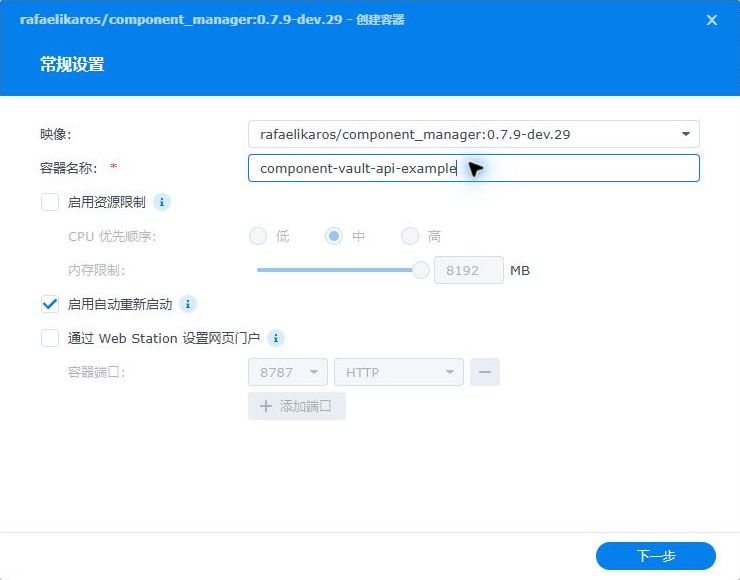
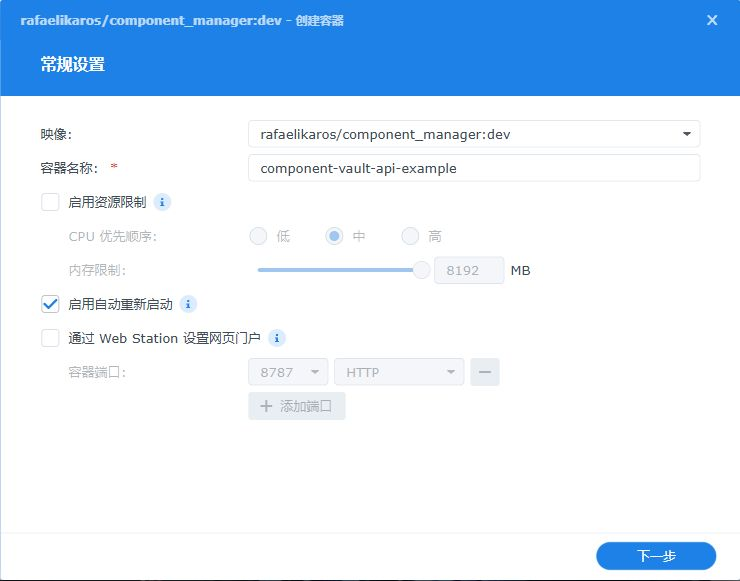
docs: illustrate standalone Synology deployment on dev.30

diff --git a/docs/docker-manual.md b/docs/docker-manual.md
@@ -1,85 +1,110 @@
-# 群晖手动部署
+# 群晖 Container Manager 图文部署
 
-在 Container Manager 的「映像」中分别运行 API 和 Web 即可。以下步骤全程使用 DSM 界面，无需 Compose、`.env`、SSH、Web Station 或 Docker socket。如果只用 Android 同步，创建 API 容器即可。
+在群晖的 **Container Manager → 映像**中创建 API 和 Web 两个独立容器，全程在 DSM 界面完成，无需 Compose、`.env`、SSH 或 Docker socket。只需要 Android 同步时，创建 API 并设置管理员密钥即可。
 
-![浏览器分别访问 NAS 上的 Web 8081 和 API 8787。](images/docker-manual/access-topology.svg)
+本页用 `v0.7.9-dev.30` 的实拍演示。截图里的 `192.168.1.4` 是示例，请换成自己的 NAS 地址。带 `-example` 的名称用于演示向导。
 
-## 1. 选择镜像
+![部署示意。浏览器访问 NAS 的 8081 端口打开 Web 管理台，客户端和管理台都使用 8787 端口访问 API。](images/docker-manual/access-topology.svg)
 
-在「镜像仓库」搜索 `rafaelikaros/component_manager`，下载所选渠道的镜像。
+## 1. 下载对应版本的镜像
 
-| 渠道 | API 使用的标签 | Web 使用的标签 | Web 的「命令」 |
+在「镜像仓库」搜索 `rafaelikaros/component_manager`，按下表下载标签。`dev` 统一镜像只下载一次，后面用它创建两个容器。
+
+| 要安装的版本 | API 标签 | Web 标签 | Web 的「命令」 |
 | --- | --- | --- | --- |
-| 开发版（dev.30 起） | `dev` | `dev`，直接复用已经下载的镜像 | 填 `web` |
+| 开发版 dev.30 起 | `dev` | 使用同一个 `dev` | 填 `web` |
+| 固定 dev.30 | `0.7.9-dev.30` | 使用同一个 `0.7.9-dev.30` | 填 `web` |
 | 正式版 0.7.8 | `latest` | `web-latest` | 留空 |
-| 固定 dev.30 | `0.7.9-dev.30` | `0.7.9-dev.30` | 填 `web` |
 
-若仓库搜索报错，打开「映像 → 操作 → 导入 → 从 URL 添加」，输入 `https://hub.docker.com/r/rafaelikaros/component_manager`，选择目标标签。公开镜像无需填写 Docker Hub 用户名和密码，保留证书验证。等待镜像出现在「映像」后再创建容器。
+**搜索提示无法连接时**，打开「映像 → 操作 → 导入 → 从 URL 添加」。粘贴下面的仓库地址，账号和密码留空，保留默认的证书验证。点击「导入」后，在列表中选择需要的标签。
 
-旧部署可以继续使用配套的 `web-*` 兼容标签和默认 Web 命令。创建新开发版容器时，只需要表中的一个统一镜像。
+```text
+https://hub.docker.com/r/rafaelikaros/component_manager
+```
+
+![群晖「从 URL 添加」窗口。填写 Docker Hub 仓库地址，账号和密码保持空白。](images/docker-manual/00-import-url.jpg)
+
+下载完后在「映像」找到所选标签。下图中只有一个 `dev` 映像，选中它后可以点「运行」。
+
+![DSM 映像列表选中了 rafaelikaros/component_manager 的 dev 标签。](images/docker-manual/01-images.jpg)
 
 ## 2. 创建 API 容器
 
-新安装先在 File Station 创建 `/docker/component-vault/data`。升级时，先按[手动更新步骤](#5-手动更新或切换渠道)备份并记录原映射，然后继续使用原数据目录。
+**准备数据目录。** 新安装用 File Station 在 `docker` 共享文件夹下创建 `component-vault/data`。如果在升级，先[备份并记录旧挂载](#5-手动更新或切换渠道)，创建新容器时选择原目录。
 
-1. 在「映像」选中 API 镜像，点「运行」。容器名可填 `component-vault-api`。可勾选「启用自动重新启动」，保持「通过 Web Station 设置网页门户」未勾选。
-2. 在「高级设置 → 端口设置」填本地 `8787`、容器 `8787`，类型 `TCP`。在「存储空间设置」选择数据目录，装载路径填 `/data`，选「读取/写入」。
+1. 选中 API 映像，点「运行」。容器名称填 `component-vault-api`，可以勾选自动重新启动。「通过 Web Station 设置网页门户」保持未勾选，然后点「下一步」。
 
-   ![DSM 的 API 端口与数据挂载示例。](images/docker-manual/03-api-ports-data.jpg)
+   ![API 常规设置。映像使用 dev、启用自动重新启动、Web Station 网页门户未勾选。](images/docker-manual/02-api-general.jpg)
 
-3. 网络选择 `bridge`，保持高权限关闭。新安装保留镜像自带的环境变量。「执行命令」中的 Entrypoint 保留默认值，「命令」留空。统一镜像会执行默认的 `api`。
-4. 核对摘要，保持「向导完成后运行此容器」勾选，点「完成」。打开 `http://NAS地址:8787/health`。看到 `"status":"ok"` 后再继续。
+2. 在「高级设置」将本地端口和容器端口都填 `8787`，类型选 `TCP`。在「存储空间设置」点「添加文件夹」，选准备好的数据目录，装载路径填 `/data`，权限选「读取/写入」。
+
+   ![API 高级设置。8787 映射到 8787，选中的宿主目录以读写方式挂载到 /data。](images/docker-manual/03-api-ports-data.jpg)
+
+3. 新安装保留镜像的环境变量。网络选 `bridge`，高权限执行保持关闭。在「执行命令」中保留 Entrypoint，把「命令」留空。图里灰色的 `api` 是默认命令提示。
+
+   ![API 使用 bridge 网络和镜像自带的入口。命令框为空，灰色提示为 api。](images/docker-manual/04-api-command.jpg)
+
+4. 点「下一步」。在摘要核对端口和 `/data` 后，勾选「向导完成后运行此容器」，点击「完成」。打开 `http://NAS地址:8787/health`，应看到 `"status":"ok"`。版本从同一响应的 `version` 查看。
 
 ## 3. 创建 Web 容器
 
-1. 在「映像」中再次点「运行」。开发版选刚才创建 API 的同一个镜像，正式版选 `web-latest`。容器名可填 `component-vault-web`。保持 Web Station 和高权限关闭。
-2. 在「高级设置 → 端口设置」只保留本地 `8081` → 容器 `80`（TCP）。若向导预填 `8787` 或 `8790`，把容器端口改成 `80` 或删除预填行后新增。Web 容器的「存储空间设置」留空。
+1. 回到「映像」再点一次「运行」。开发版选刚才用过的 `dev`，正式版 0.7.8 选 `web-latest`。容器名称可填 `component-vault-web`，保持 Web Station 和高权限执行关闭。
+2. 在「高级设置」把本地端口填 `8081`，**容器端口填 `80`**，类型选 `TCP`。如果预填了 `8787` 或 `8790`，改成 `80` 或删除预填行后新增。Web 的存储空间留空。
 
-   ![DSM 的 Web 端口示例，仅保留 8081 到 80 的映射。](images/docker-manual/05-web-ports.jpg)
+   ![Web 高级设置。8081 映射到 80，没有任何文件或文件夹挂载。](images/docker-manual/05-web-ports.jpg)
 
-3. 网络选择 `bridge`。保留默认 Entrypoint。**统一镜像在「执行命令 → 命令」明确填 `web`。** 使用正式版 `web-latest` 时留空，使用镜像自带的 Web 命令。
-4. 核对摘要并启动。在「容器」列表确认两项都在运行，且「项目」一栏都是 `-`。访问 `http://NAS地址:8081/`，应显示管理台登录页。
+3. 网络选 `bridge`，Entrypoint 保留默认。**统一镜像在「命令」框填 `web`。** 正式版 `web-latest` 的命令框留空，沿用镜像自己的默认值。
 
-| 摘要应显示 | API | Web（统一镜像） |
-| --- | --- | --- |
-| 本地端口 → 容器端口 | `8787 → 8787` | `8081 → 80` |
-| 存储空间 | 数据目录 → `/data`，读写 | 无 |
-| 命令 | 默认 `api` | `web` |
+   ![统一镜像的 Web 容器命令框已明确填入 web，镜像入口保持不变。](images/docker-manual/06-web-command.jpg)
 
-截图取自 DSM 实机。表格中的命令和标签适用于上方所选版本。宿主端口已占用时，选另一个空闲的本地端口，保持容器端口不变。后续访问地址和允许来源使用你选的本地端口。
+4. 在摘要核对端口和命令，完成向导并启动。回到「容器」，两个容器应显示绿色运行状态，「项目」一栏显示 `-`。打开 `http://NAS地址:8081/`，应看到管理台登录页。
 
-## 4. 在网页保存配置
+   ![实际运行的 component-vault-api 与 component-vault-web 均显示绿色，项目一栏为短横线。](images/docker-manual/07-running-containers.jpg)
 
-1. 打开 `http://NAS地址:8787/setup`，在首次设置页生成或填写管理员 API Token，并将它保存在安全的位置。新安装无需添加 `API_TOKEN` 环境变量。
-2. 展开「Web 管理台（可选）」。管理台地址填 `http://NAS地址:8081/`，允许访问 API 的 Web 来源填 `http://NAS地址:8081`（末尾无 `/`）。需要从管理台编辑、删除或出入库时，开启「允许已登录的 Web 用户修改库存」，然后保存。
-3. 打开 `http://NAS地址:8081/`。API 地址填 `http://NAS地址:8787`，使用刚保存的密钥登录。Android 也填写 API 地址及对应的账户密钥。
+宿主机端口已被占用时，换一个空闲的**本地端口**。容器端口保持 API `8787`、Web `80`，下一节的浏览器地址也要换成实际使用的本地端口。
 
-   ![Web 登录页显示 API 地址与账户密钥两个输入框。](images/docker-manual/10-web-login.jpg)
+## 4. 设置管理员并登录
 
-Web 和 API 使用同一主机名及协议，端口可以不同。允许来源填写浏览器实际打开的 Web 地址。旧部署配置了非空环境变量时，以环境变量的值为准。账户创建及密钥分发见[账户指南](accounts.md)，更多连接细节见[配置说明](docker-quickstart.md#3-环境变量和网页配置的优先级)。
+1. 打开 `http://NAS地址:8787/setup`，在「首次设置」生成或填写管理员 API Token，并保存到自己的密码管理器。新安装可以通过此页完成设置，容器环境变量无需新增 `API_TOKEN`。
+2. 展开「Web 管理台（可选）」，**下面两个字段都要填**。服务端从第二项判断是否允许网页发起登录请求。
+
+   | 字段 | 示例 |
+   | --- | --- |
+   | Web 管理台访问地址 | `http://NAS地址:8081/` |
+   | 允许访问 API 的 Web 来源 | `http://NAS地址:8081`，只填协议、主机和端口 |
+
+   ![群晖实机保存后的服务端配置。Web 管理台地址和允许来源使用 Web 的 8081 端口。](images/docker-manual/09-web-config.jpg)
+
+3. 需要在网页编辑、删除库存或办理出入库时，可开启「允许已登录的 Web 用户修改库存」。点击「保存并完成设置」。已有部署可以在 `/setup` 用当前管理员密钥登录后修改；配置了非空环境变量的字段以环境变量为准。
+4. 打开 Web 登录页 `http://NAS地址:8081/`。**登录页的 API 地址填 `http://NAS地址:8787`**，输入刚保存的密钥。登录后应看到管理员身份和库存概览，新安装的库存统计为零。Android 同样填写 API 地址和对应账户密钥。
+
+   ![实际登录后的 Web 概览显示管理员会话有效，有效元器件、库存和流水为零。](images/docker-manual/10-web-overview.jpg)
+
+Web 和 API 使用同一主机名和协议，例如都用 IP，或都用同一域名。两个端口可以不同。普通用户使用各自的密钥，由管理员在[账户管理](accounts.md)中创建。
 
 ## 5. 手动更新或切换渠道
 
-![手动更新时先备份数据，再用新镜像重建容器并核对版本。](images/docker-manual/backup-and-recreate.svg)
+![手动更新示意。先备份，再使用新镜像重新创建容器，沿用原数据目录，最后验证版本和库存。](images/docker-manual/backup-and-recreate.svg)
 
-1. 在容器详情导出 API 与 Web 的容器设置，记录当前标签、Image ID、端口、挂载来源和自定义环境变量。导出的设置可能含密钥，请存放于私有目录。
-2. 暂停写入并停止旧 API，备份完整的宿主数据目录。备份应包括所有账户的数据库、`users/`、`config.json`、`.db.photos/` 目录以及存在的 SQLite 辅助文件。导出容器设置不包含这些文件。
-3. 按第 1 节下载目标渠道。停止旧 Web，用新镜像重新创建两个容器，使用原端口、挂载和生效的自定义配置，并按目标镜像填写命令。如果旧容器还占着名称，给新容器取不同的名称，验收前保留停止的旧容器。仅点「重新启动」会继续使用旧镜像。同一个数据目录只能由一个 API 容器写入。
-4. 访问 `/health` 核对版本，登录 Web 检查账户和库存。若出现首次设置或库存为空，先暂停操作并检查旧数据目录是否正确挂载。确认新容器可用后，可清理旧容器或无引用的镜像，保留数据目录和备份。
+1. 记下旧 API 和 Web 的镜像、端口、数据挂载和自定义环境变量。可从容器详情导出容器设置，妥善保管可能包含密钥的导出文件。
+2. 暂停写入并停止旧 API，备份整份宿主数据目录。备份应包含数据库和存在的 SQLite 辅助文件、`config.json`、`users/` 和各账户的照片目录。容器设置导出与数据备份分别保存。
+3. 下载目标版本，停止旧 Web，再从新镜像创建 API 和 Web。保持原来的端口、API 的 `/data` 映射和有效配置，命令按第 1 节的目标版本填写。若保留已停止的旧容器，给新容器取不同名称。单纯点「重新启动」仍会使用旧镜像。
+4. 打开 `/health` 核对版本，登录 Web 检查账户和库存。升级后如果出现首次设置页或空库存，先暂停操作，核对 `/data` 是否挂回原目录。检查通过后方可清理旧容器和无引用的镜像，保留数据目录与备份。
 
-降级前先确认目标版本能读取现有数据。需要回退数据库时，使用对应版本的镜像与升级前的一致备份。[备份与回退](docker-quickstart.md#6-升级前备份与回退)
+如果目标版本无法读取新版数据库，使用对应旧镜像和升级前的一致备份恢复。[备份与回退](docker-quickstart.md#6-升级前备份与回退)
 
 ## 分阶段排障
 
-| 现象 | 先核对什么 |
+| 现象 | 核对步骤 |
 | --- | --- |
-| 仓库搜索失败或下载失败 | 第 1 节的 URL 导入可绕过搜索入口。下载也失败时查看 NAS 网络和原始拉取错误。已经存在的旧镜像不会因拉取失败而消失。 |
-| Web 容器退出，日志是 `exec /usr/local/bin/componentvault-entrypoint: no such file or directory` | 记录故障容器和所选映像的 Image ID，核对实际 Entrypoint、命令及挂载。用同一镜像、空闲宿主端口和第 3 节配置另建独立 Web 容器对照，无需挂载 API 数据。 |
-| Web 页打不开 | 核对 Web 容器正在运行、宿主端口映射到容器 `80`。统一镜像的命令应为 `web`。 |
-| Web 能打开，登录或连接失败 | 先从同一浏览器打开 API 的 `/health`，再核对密钥、API 地址和允许的 Web 来源。[连接与 Cookie 说明](docker-quickstart.md#3-环境变量和网页配置的优先级) |
+| 「镜像仓库」搜索失败 | 试第 1 节的「从 URL 添加」。下载也失败时检查 NAS 网络及原始拉取错误。「映像」里已有同名标签时，核对它是否是本次下载的 Image ID。 |
+| Web 容器启动后退出 | 检查所用标签、Entrypoint、启动命令和日志。用统一镜像时核对命令是 `web`，容器端口是 `80`。 |
+| 日志提示 `exec /usr/local/bin/componentvault-entrypoint: no such file or directory` | 记录映像的 Image ID、容器实际入口和挂载目标。可用同一镜像、空闲宿主端口和第 3 节配置另建一个 Web 容器对照，无需挂载 API 数据。 |
+| Web 页能打开，登录提示无法建立会话 | 在同一浏览器打开 API 的 `/health`。随后到 `/setup` 登录，确认「允许访问 API 的 Web 来源」有浏览器实际打开的 Web 地址，例如 `http://NAS地址:8081`。两个字段分别保存，填了管理台地址还需填允许来源。 |
+| 更新后仍显示原版本 | 在 `/health` 查看 `version`，核对新容器使用的 Image ID。只下载镜像或重启旧容器都不会完成替换。 |
 
-dev.30 已在 DSM 用 `dev` 镜像实测独立容器启动。API 健康检查返回对应版本，Web 登录页和静态资源可访问。遇到故障请提供 DSM 版本、CPU 架构、映像 Image ID（与容器 ID 不同）、实际 Entrypoint/命令、挂载目标和完整错误行。发出截图前遮盖密钥和敏感配置。
+反馈问题时附上 DSM 版本、CPU 架构、映像 Image ID、实际 Entrypoint/命令和完整错误行。截图请遮盖 Token、Cookie 和敏感环境变量。
 
 ## 6. 网页一键更新是可选项
 
-管理台可检查版本。独立容器的镜像更新按第 5 节在 DSM 操作。需要在网页上重建容器时，请使用 Compose 项目和[可选 Updater](server-web-update.md)。Updater 需要 Docker socket；Watchtower 也需要 Docker 管理访问。
+管理台的「检查更新」可用于查看版本。按本页创建的独立容器在 DSM 中手动更新。希望从网页重建容器时，使用 Compose 项目和[可选 Updater](server-web-update.md)，由 Updater 使用 Docker socket 管理本项目的容器。
